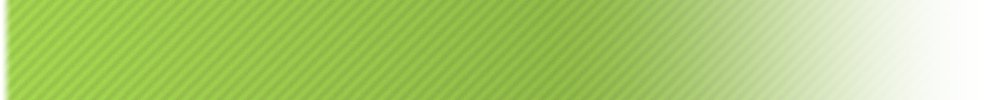
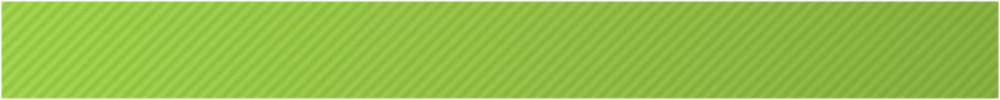
Draw one translucent brown block behind each list instead of a dark bar per option, fading out to the right with soft edges like the game, and make the selected bar solid green. tools/make_images.py paints the blocks and the bar.

diff --git a/tools/make_images.py b/tools/make_images.py
@@ -1,0 +1,86 @@
+"""Paints the skin's generated artwork into @Resources/Images, modelled on the game's tent menu.
+
+block_1.png .. block_6.png   the translucent brown block behind a list of 1 to 6 options: soft
+                             edges, fading out towards the right like the game's
+bar_selected.png             the solid green bar over the selected option, a little brighter at
+                             the left with a faint diagonal weave (Menu.lua draws this same image
+                             through BarTintDim for the highlight of a column without focus)
+
+Everything is painted at twice its on-screen size (OptionW x OptionH = 500 x 50 with
+SizeMultiplier=10). Needs Pillow:  python -m pip install pillow
+Change the numbers below, run  python tools/make_images.py  and refresh the skin.
+"""
+import math
+import os
+import random
+
+from PIL import Image
+
+W, ROW = 1000, 100
+OUT = os.path.join(os.path.dirname(os.path.abspath(__file__)), "..", "@Resources", "Images")
+
+# the block behind a list: warm dark brown, 62% opaque at the left, gone by the right edge
+BLOCK_RGB = (70, 56, 40)
+BLOCK_ALPHA = 0.62
+BLOCK_FADE_START = 0.55         # where (0..1 across the bar) the fade to transparent begins
+BLOCK_FEATHER = 6               # soft left, top and bottom edges, in painted pixels
+
+# the selected bar: the game's yellow-green, solid all the way across
+GREEN = (140, 188, 58)
+GREEN_ALPHA = 0.95
+GREEN_FEATHER = 3               # soft edges all round, in painted pixels
+LEFT_BRIGHT, RIGHT_BRIGHT = 1.08, 0.90   # brightness at the left edge and at the right edge
+WEAVE_PERIOD, WEAVE_DEPTH = 14, 0.05     # diagonal texture: pixels per stripe, +/- brightness
+GRAIN = 0.02                             # random per-pixel brightness jitter
+
+
+def smoothstep(t):
+    t = min(max(t, 0.0), 1.0)
+    return t * t * (3 - 2 * t)
+
+
+def clamp(v):
+    return max(0, min(255, int(round(v))))
+
+
+def feather(distance, width):
+    """0 at the very edge, 1 once `width` pixels inside it."""
+    return smoothstep((distance + 0.5) / width) if width > 0 else 1.0
+
+
+def block(rows):
+    h = rows * ROW
+    im = Image.new("RGBA", (W, h))
+    px = im.load()
+    for x in range(W):
+        u = x / (W - 1)
+        a = BLOCK_ALPHA * feather(x, BLOCK_FEATHER)
+        if u > BLOCK_FADE_START:
+            a *= 1 - smoothstep((u - BLOCK_FADE_START) / (1 - BLOCK_FADE_START))
+        for y in range(h):
+            ay = a * feather(y, BLOCK_FEATHER) * feather(h - 1 - y, BLOCK_FEATHER)
+            px[x, y] = BLOCK_RGB + (clamp(255 * ay),)
+    return im
+
+
+def selected():
+    random.seed(7)
+    im = Image.new("RGBA", (W, ROW))
+    px = im.load()
+    for x in range(W):
+        u = x / (W - 1)
+        a = GREEN_ALPHA * feather(x, GREEN_FEATHER) * feather(W - 1 - x, GREEN_FEATHER)
+        bright = LEFT_BRIGHT + (RIGHT_BRIGHT - LEFT_BRIGHT) * u
+        for y in range(ROW):
+            ay = a * feather(y, GREEN_FEATHER) * feather(ROW - 1 - y, GREEN_FEATHER)
+            weave = math.sin(2 * math.pi * (x + y) / WEAVE_PERIOD) * WEAVE_DEPTH
+            b = bright * (1 + weave + random.uniform(-GRAIN, GRAIN))
+            px[x, y] = (clamp(GREEN[0] * b), clamp(GREEN[1] * b), clamp(GREEN[2] * b), clamp(255 * ay))
+    return im
+
+
+if __name__ == "__main__":
+    for rows in range(1, 7):
+        block(rows).save(os.path.join(OUT, "block_%d.png" % rows))
+    selected().save(os.path.join(OUT, "bar_selected.png"))
+    print("painted block_1.png to block_6.png and bar_selected.png in", os.path.normpath(OUT))

diff --git a/README.md b/README.md
@@ -44,13 +44,13 @@ The icons and top-level labels follow the game's current tent menu (eight icons)
 | `@Resources/Cursor.inc` | The click flash, the green dot and the animation timer, included last so they draw on top. |
 | `@Resources/Scripts/Menu.lua` | All behaviour: which icon is selected, which columns and panel are open, which options are highlighted, and the glides. |
 | `@Resources/Images/` | Artwork, kept at about twice its on-screen size. |
-| `tools/make_bars.py` | Paints the two option-bar images: the dark block behind unselected options and the green bar that fades out over the selected one. |
+| `tools/make_images.py` | Paints the generated artwork: the translucent block behind each list and the green bar over the selected option. |
 
 The INI files only describe how things look. Every mouse action calls a function in `Menu.lua`, which is heavily commented and is the place to read if you want to change behaviour.
 
 ## Adding or changing an option
 
-Every option is a bar plus a label in its menu's file, and an arrow if it opens something to the right:
+Every list starts with its block (`Bg_<List>`, sized by the number of options), then every option is a bar plus a label, and an arrow if it opens something to the right:
 
 ```ini
 [Opt_Quest_1]
@@ -77,15 +77,21 @@ Y=#OptionY1#
 - `ShowPanel('Status')` shows a panel: `FileList`, `NowPlaying`, `Status` or `Run`.
 - `OpenSubmenu('Rest')` opens the list `Rest` in the second column; `BackMenu()` closes it.
 
-To add a sixth option, copy a group, use the next number and `OptionY6`.
+To add a sixth option, copy a group, use the next number and `OptionY6`, and point the list's block at `block_6.png` with `H=(6*#OptionPitch#)`.
 
 ## Adding a sub-menu
 
-A sub-menu is another list in the same file whose meters add the second-column styles. Give it a style that puts it in the `Menus` group, its own `Opt_<List>_<N>` groups, and point a parent option at it with `OpenSubmenu`:
+A sub-menu is another list in the same file whose meters add the second-column styles. Give it a style that puts it in the `Menus` group, a block, its own `Opt_<List>_<N>` groups, and point a parent option at it with `OpenSubmenu`:
 
 ```ini
 [StyleRest]
 Group=Menus | Menu_Rest
+
+[Bg_Rest]
+Meter=Image
+MeterStyle=StyleListBlock | StyleSubBlockColumn | StyleRest
+ImageName=#@#Images\block_5.png
+H=(5*#OptionPitch#)
 
 [Opt_Rest_1]
 Meter=Image
@@ -114,5 +120,5 @@ An arrow in the second column uses `StyleOptionArrow | StyleSubArrowColumn`.
 - Set `DebugLog=1` in `Variables.inc` and the script narrates what it does in the Rainmeter log (`%APPDATA%\Rainmeter\Rainmeter.log`). Refresh the skin after a change and read the log for errors.
 - Notepad++ highlights `.inc` files as INI if you add `inc` under Settings, Style Configurator, ini, User ext.
 - Rainmeter bakes a variable's references to other variables when the skin loads, so a variable derived from one the script changes at runtime (such as `PanelX`) will not follow it. Write the expression in the meter instead.
-- To change the bars' colour, fade or texture, edit the numbers at the top of `tools/make_bars.py`, run it with Python (it needs Pillow: `python -m pip install pillow`) and refresh the skin.
+- To change the blocks' or bars' colour, fade or texture, edit the numbers at the top of `tools/make_images.py`, run it with Python (it needs Pillow: `python -m pip install pillow`) and refresh the skin.
 - Rainmeter counts hidden meters' positions when sizing the skin window, so the transparent window is wider than the drawn menu. Transparent areas are click-through, so nothing underneath is blocked.
